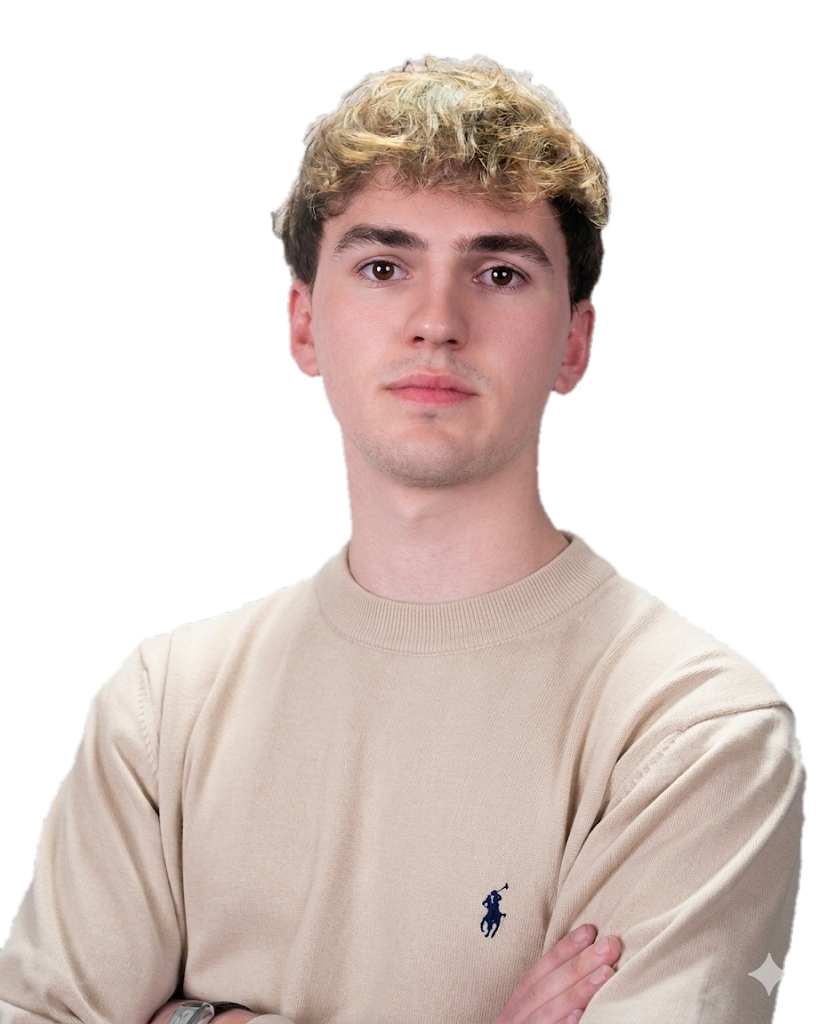
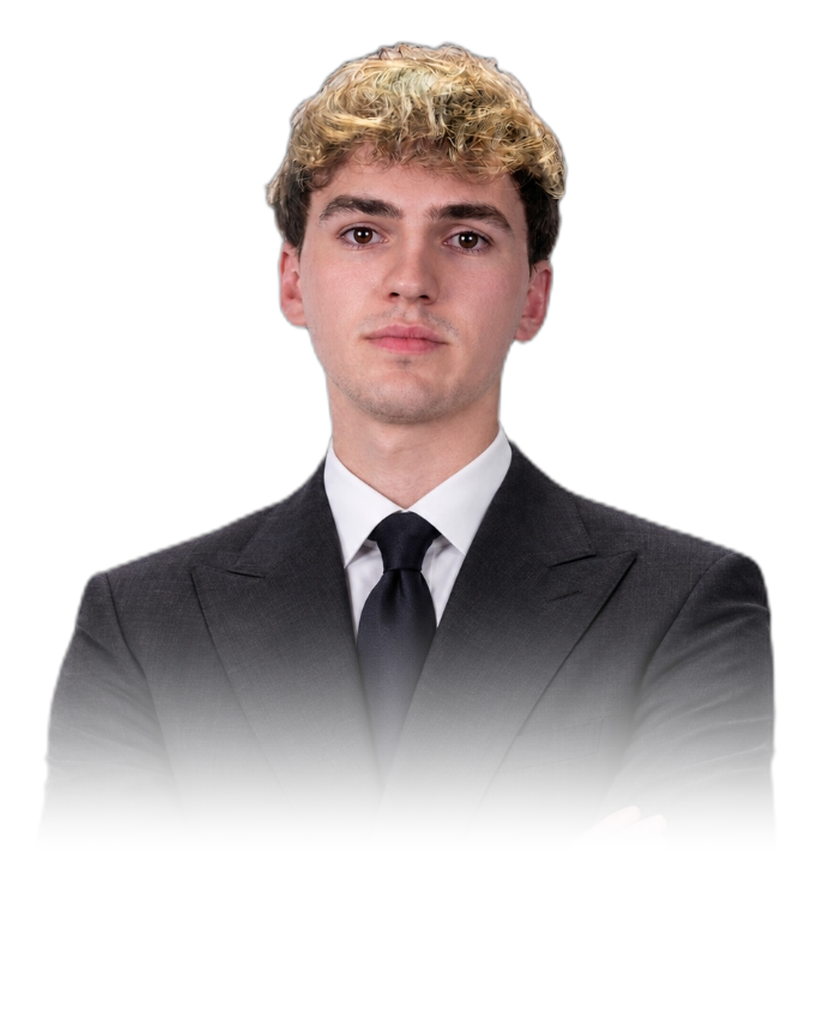
feat: update hero portrait to suit, enhance title contrast and update footer status

diff --git a/src/sections/Hero.jsx b/src/sections/Hero.jsx
@@ -115,12 +115,27 @@ const Hero = () => {
                 width: '100%',
                 height: '100%',
                 objectFit: 'cover',
-                filter: 'grayscale(100%) contrast(1.05)',
-                maskImage: 'linear-gradient(to bottom, black 70%, transparent 100%)',
-                WebkitMaskImage: 'linear-gradient(to bottom, black 70%, transparent 100%)',
+                filter: 'grayscale(100%) contrast(1.02) brightness(1.03)',
+                maskImage: 'linear-gradient(to bottom, black 50%, rgba(0,0,0,0.6) 70%, transparent 92%)',
+                WebkitMaskImage: 'linear-gradient(to bottom, black 50%, rgba(0,0,0,0.6) 70%, transparent 92%)',
               }}
             />
           </div>
+
+          {/* Halo lumineux d'arrière-plan pour détacher le texte du costume */}
+          <div
+            style={{
+              position: 'absolute',
+              bottom: '8%',
+              left: '50%',
+              transform: 'translateX(-50%)',
+              width: 'min(90vw, 700px)',
+              height: '180px',
+              background: 'radial-gradient(ellipse 65% 55% at 50% 50%, rgba(255, 255, 255, 0.95) 0%, rgba(255, 255, 255, 0.75) 45%, transparent 75%)',
+              pointerEvents: 'none',
+              zIndex: 2,
+            }}
+          />
 
           {/* Titre de premier plan */}
           <div
@@ -145,6 +160,7 @@ const Hero = () => {
                 lineHeight: 1,
                 margin: 0,
                 textTransform: 'none',
+                textShadow: '0 0 20px rgba(255, 255, 255, 0.95), 0 0 35px rgba(255, 255, 255, 0.85), 0 0 8px rgba(255, 255, 255, 0.9)',
               }}
             >
               Concepteur <span className="accent-glow-text" style={{ padding: '0 0.05em' }}>Logiciel</span>

diff --git a/src/App.jsx b/src/App.jsx
@@ -612,7 +612,7 @@ function App() {
                 letterSpacing: '0.05em',
               }}
             >
-              LOC: 18,742 // LIMOGES/ABERDEEN ERASMUS+ // v3.1.0
+              LIMOGES, FRANCE // BUT 3 INFORMATIQUE // v3.1.0
             </div>
           </div>
         </footer>
